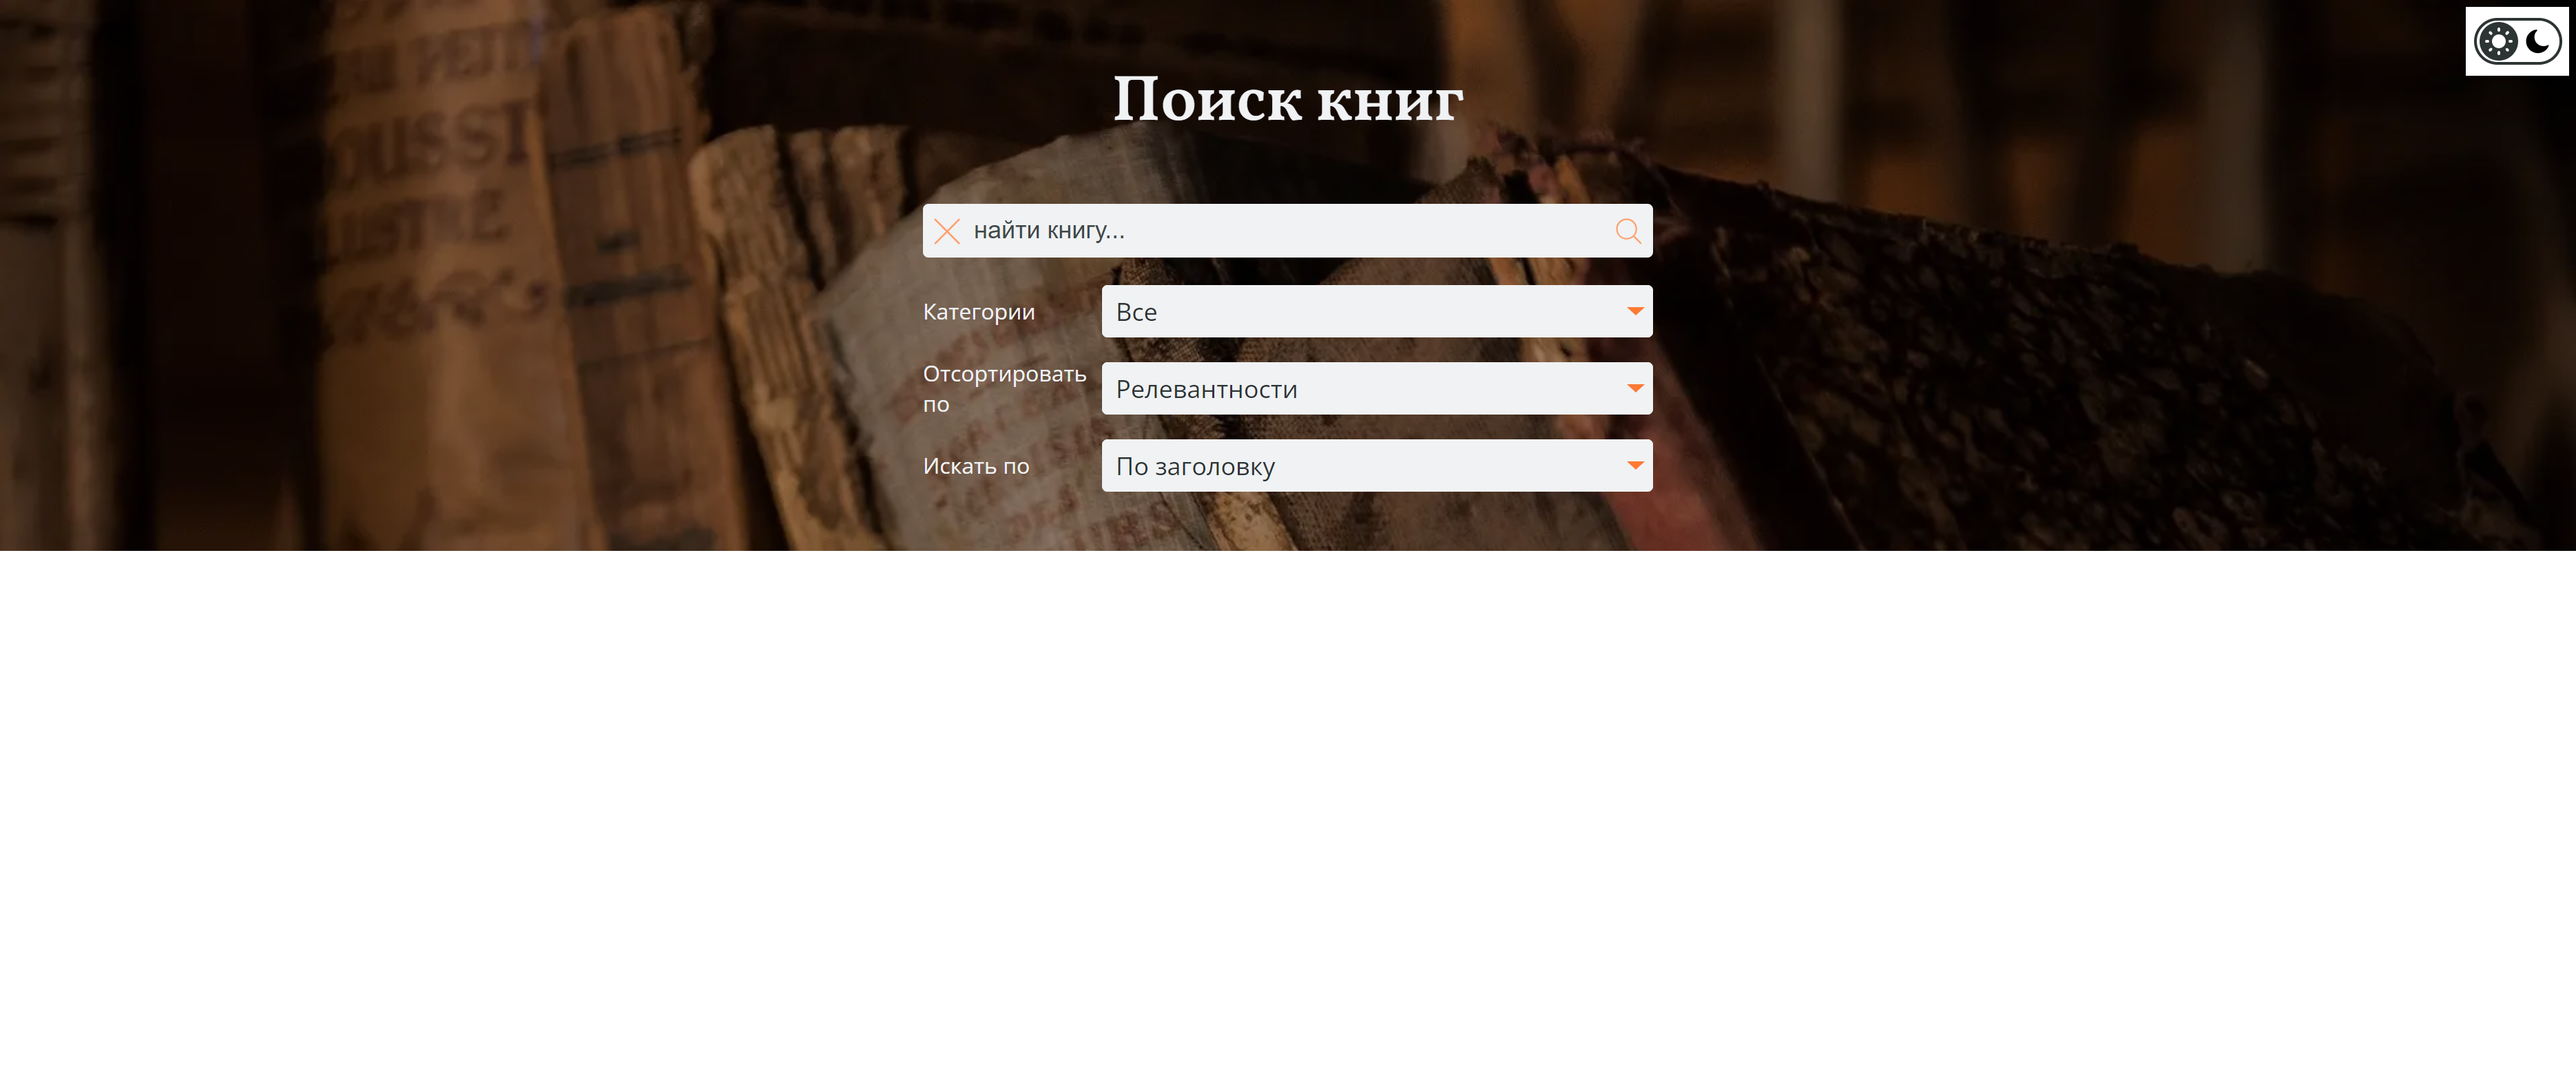
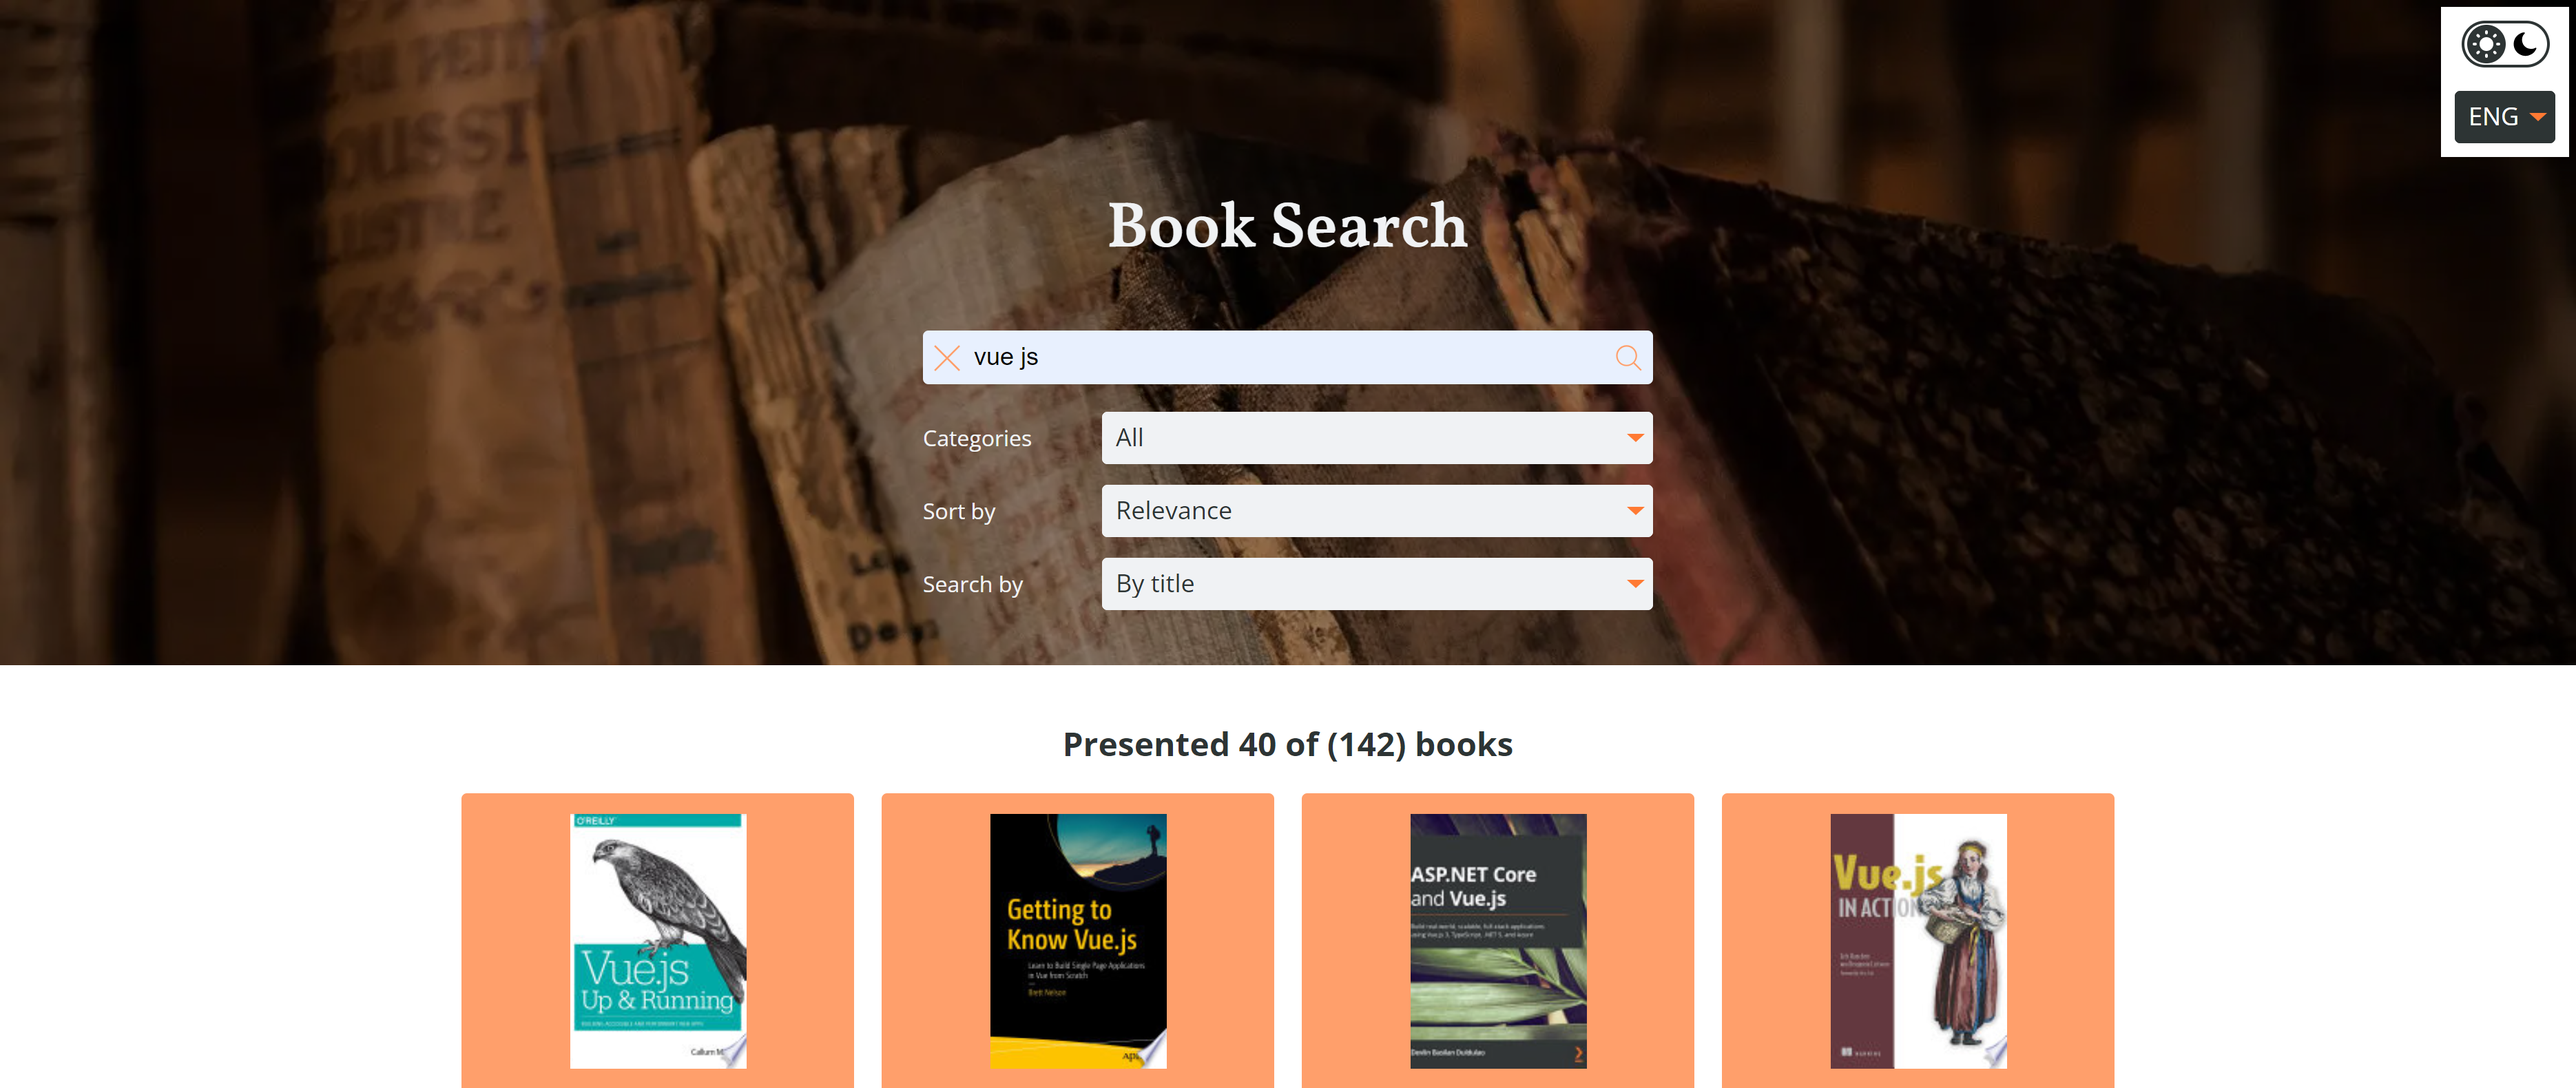
chore(readme): update the picture and text for the readme

diff --git a/readme.md b/readme.md
@@ -11,6 +11,7 @@
 ![typescript](https://img.shields.io/badge/typescript-%23323330.svg?style=for-the-badge&logo=typescript&logoColor=%233178c6)
 ![redux-toolkit](https://img.shields.io/badge/redux_toolkit-%23764abc.svg?style=for-the-badge&logo=redux&logoColor=%23ffffff)
 ![react router](https://img.shields.io/badge/react_router-%23252525.svg?style=for-the-badge&logo=react-router&logoColor=%23f94949)
+![i18next](https://img.shields.io/badge/i18next-%23009788.svg?style=for-the-badge&logo=i18next&logoColor=%23ffffff)
 
 ## 📄 Описание проекта
 Веб приложение по поиску книг.
@@ -55,3 +56,4 @@ $ npm run build
 - Возможность посмотреть фрагмент книги и купить ее через Google Books
 - Возможность подгрузки книг которые соответствуют введенному запросу через кнопку "cмотреть еще"
 - Возможность переключения темы приложения с темной на светлую
+- Возможность переключать язык приложения с русского на английский
